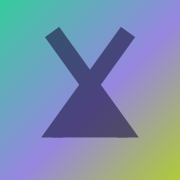
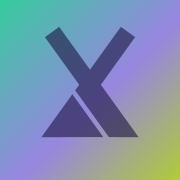
Add files via upload

Changed region(s): [[0.2778, 0.5, 0.7222, 0.7778]]

diff --git a/index (1).html b/index (1).html
@@ -23,7 +23,7 @@
 <!-- Icône d'onglet / barre des tâches : intégrée directement dans le fichier (data URI)
      pour qu'elle s'affiche aussi quand index.html est ouvert seul, sans les PNG à côté.
      Les PNG 192/512 restent référencés par manifest.json pour l'installation de l'app. -->
[2 lines of base64/hex data omitted]
 <style>
   :root{
     /* Couleurs de données — fixes, une par type de transaction (cahier des charges v2, §1) */
@@ -124,7 +124,7 @@
   .brand-mark{
     width:34px;height:34px;
     border-radius:9px;
[2 lines of base64/hex data omitted]
     flex-shrink:0;
   }
   .brand-name{
@@ -1038,7 +1038,7 @@
   }
   #kaxo-lock .lock-mark{
     width:60px; height:60px; border-radius:16px; margin:0 auto 18px;
[2 lines of base64/hex data omitted]
   }
   #kaxo-lock h2{ margin:0 0 8px; font-size:19px; color:#2b2b2b; }
   #kaxo-lock p{ margin:0 0 20px; font-size:14px; color:#6b6b6b; line-height:1.5; }

diff --git a/sw.js b/sw.js
@@ -1,7 +1,7 @@
 // Service worker Kaxo Budget — mise en cache pour usage hors ligne.
 // Incrémentez CACHE_NAME à chaque nouvelle version mise en ligne
 // pour forcer les navigateurs à récupérer les fichiers à jour.
-const CACHE_NAME = 'kaxo-budget-cache-v1.6.8-logoX';
+const CACHE_NAME = 'kaxo-budget-cache-v1.6.8-logoX2';
 
 const ASSETS_TO_CACHE = [
   './',
